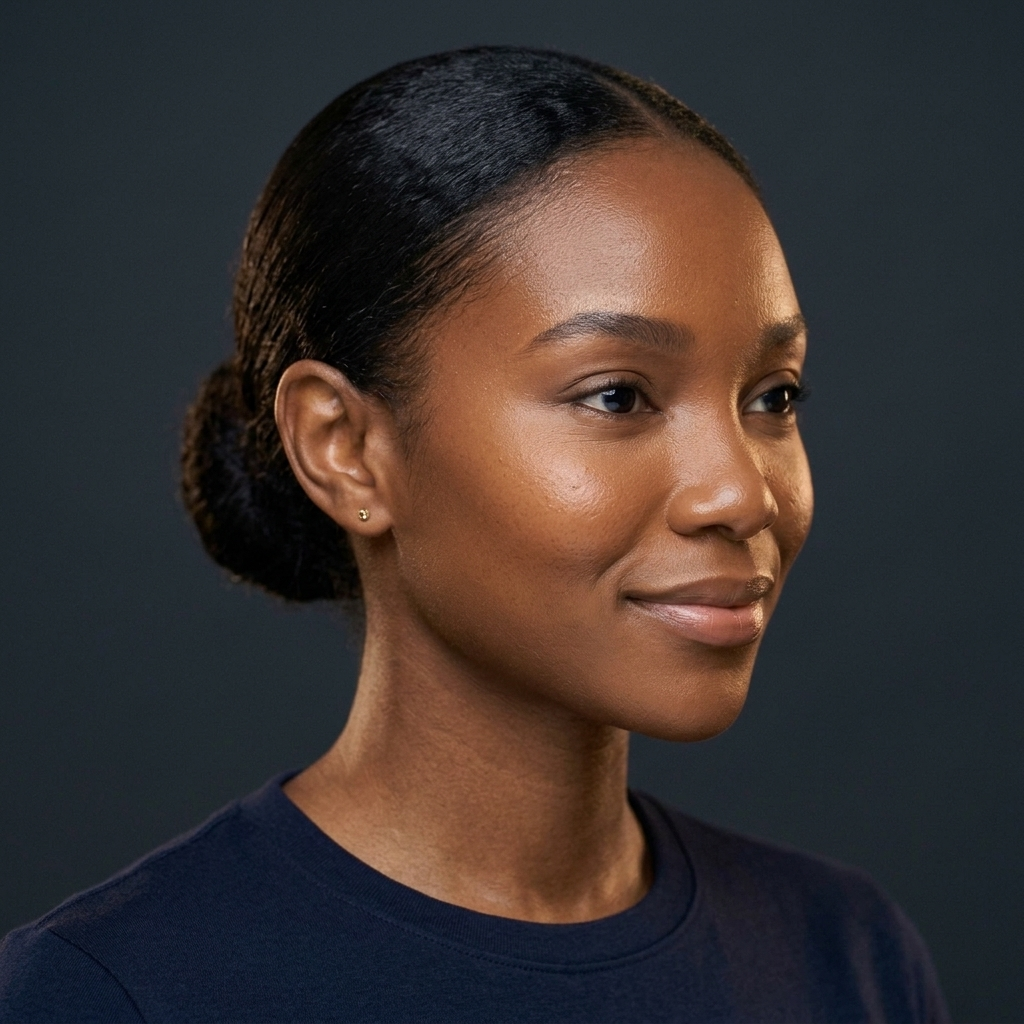
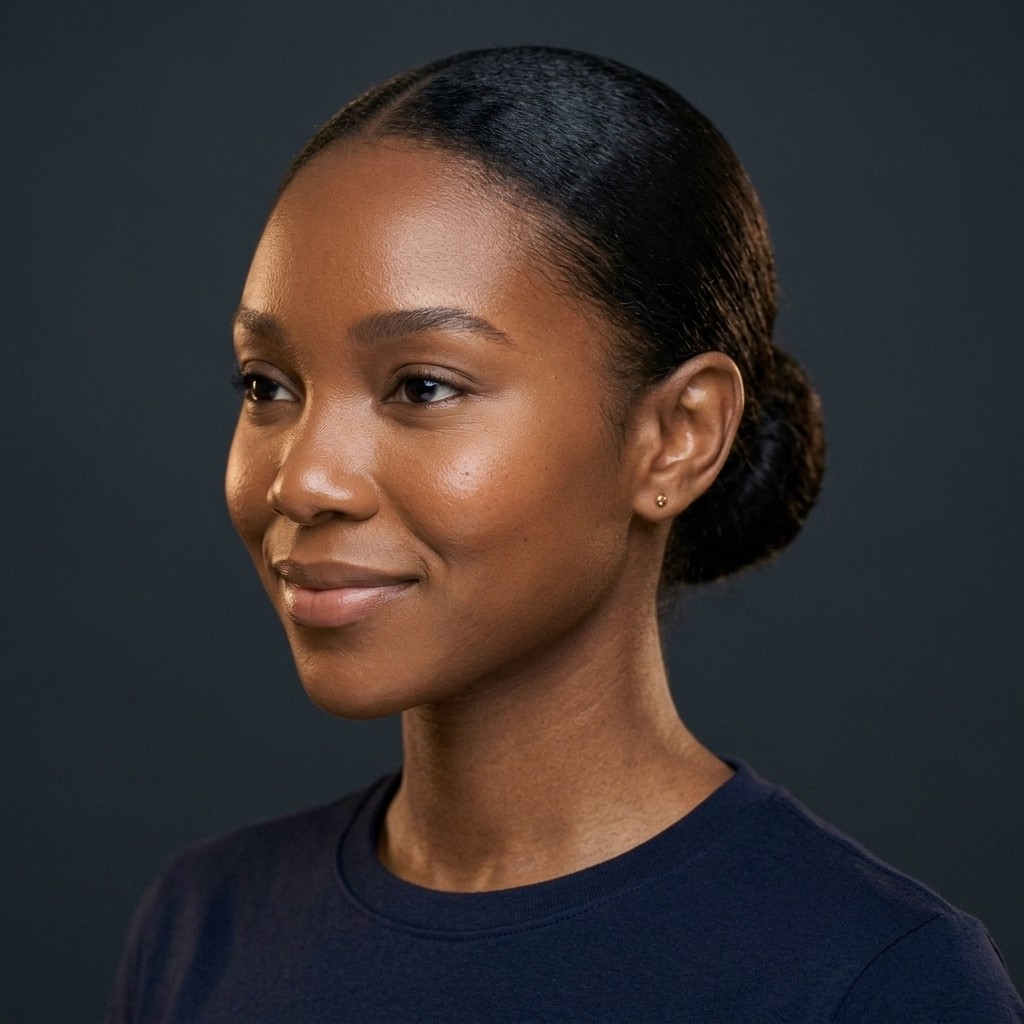
fix(scan): perfect symmetrical right and left facial profile poses for 360 guide

diff --git a/public/sw.js b/public/sw.js
@@ -11,7 +11,7 @@
  *  - Écritures (POST/PUT/DELETE) : réseau direct.
  */
 
-const VERSION = "kene-sw-v76";
+const VERSION = "kene-sw-v77";
 const PRECACHE = "kene-precache-v71";
 const DATA_CACHE = "kene-data-v71";
 const IMG_CACHE = "kene-img-v71";
